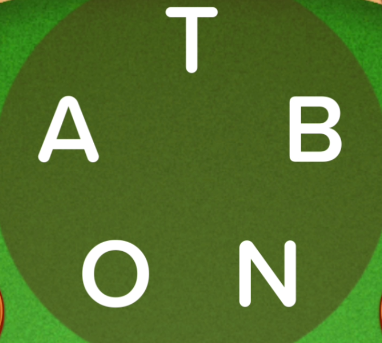
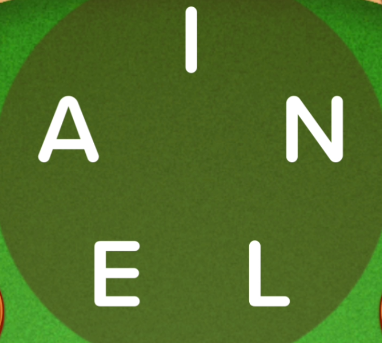
stop bot key

diff --git a/main.py b/main.py
@@ -2,9 +2,13 @@ import argparse
 import os
 import logging
 import shutil
+import keyboard
 from src.letter_detector import LetterDetector
 from src.word_solver import WordSolver
 from src.pc_automator import PCAutomator
+
+# Global flag to stop the bot
+stop_bot = False
 
 def setup_logging():
     """
@@ -19,11 +23,33 @@ def setup_logging():
         ]
     )
 
+def stop_bot_handler():
+    """
+    Handler for the stop bot hotkey.
+    """
+    global stop_bot
+    stop_bot = True
+    logging.info("STOP SIGNAL RECEIVED - Bot will stop after current operation!")
+
+def setup_hotkeys():
+    """
+    Sets up global hotkeys for controlling the bot.
+    """
+    try:
+        # Register Ctrl+Shift+F8 to stop the bot
+        keyboard.add_hotkey('ctrl+shift+f8', stop_bot_handler)
+        logging.info("Hotkey registered: Ctrl+Shift+F8 to stop the bot")
+    except Exception as e:
+        logging.warning(f"Failed to register hotkeys: {e}")
+
 def main():
     """
     Main function to run the word solver bot.
     """
+    global stop_bot
     setup_logging()
+    setup_hotkeys()
+    
     parser = argparse.ArgumentParser(description="A bot to solve word games on Android.")
     parser.add_argument(
         "--words",
@@ -64,11 +90,23 @@ def main():
 
     # Run the bot
     try:
+        if stop_bot:
+            logging.info("Bot stopped before starting due to stop signal")
+            return
+            
         logging.info("Getting processed screenshot...")
         processed_image, (crop_x, crop_y) = pc_automator.get_processed_screenshot()
 
+        if stop_bot:
+            logging.info("Bot stopped after screenshot")
+            return
+
         logging.info("Detecting letters...")
         letters_with_coords = letter_detector.detect_letters(processed_image)
+        
+        if stop_bot:
+            logging.info("Bot stopped after letter detection")
+            return
         
         # Adjust coordinates to be relative to the original screen
         adjusted_letters_with_coords = [
@@ -79,22 +117,46 @@ def main():
         detected_letters = [letter for letter, coords in adjusted_letters_with_coords]
         logging.info(f"Detected letters: {', '.join(detected_letters)}")
 
+        if stop_bot:
+            logging.info("Bot stopped after coordinate adjustment")
+            return
+
         logging.info("Finding words...")
         words = word_solver.find_words(detected_letters)
         logging.info(f"Found {len(words)} words: {', '.join(words)}")
 
+        if stop_bot:
+            logging.info("Bot stopped after word finding")
+            return
+
         logging.info("Swiping words...")
         letter_coords = {letter: coords for letter, coords in adjusted_letters_with_coords}
         for word in sorted(list(words)):
+            if stop_bot:
+                logging.info(f"Bot stopped before swiping word: {word}")
+                break
+                
             coordinates = [letter_coords[char] for char in word if char in letter_coords]
             if len(coordinates) == len(word):
                 logging.info(f"Swiping: {word}")
                 pc_automator.swipe_word(coordinates, word)
+                
+                if stop_bot:
+                    logging.info(f"Bot stopped after swiping word: {word}")
+                    break
 
-        logging.info("Done!")
+        if not stop_bot:
+            logging.info("Done!")
+        else:
+            logging.info("Bot stopped by user!")
 
     except (FileNotFoundError, RuntimeError) as e:
         logging.error(f"Error: {e}")
+    except KeyboardInterrupt:
+        logging.info("Bot stopped by Ctrl+C")
+    finally:
+        # Clean up keyboard listeners
+        keyboard.unhook_all()
 
 
 if __name__ == "__main__":
